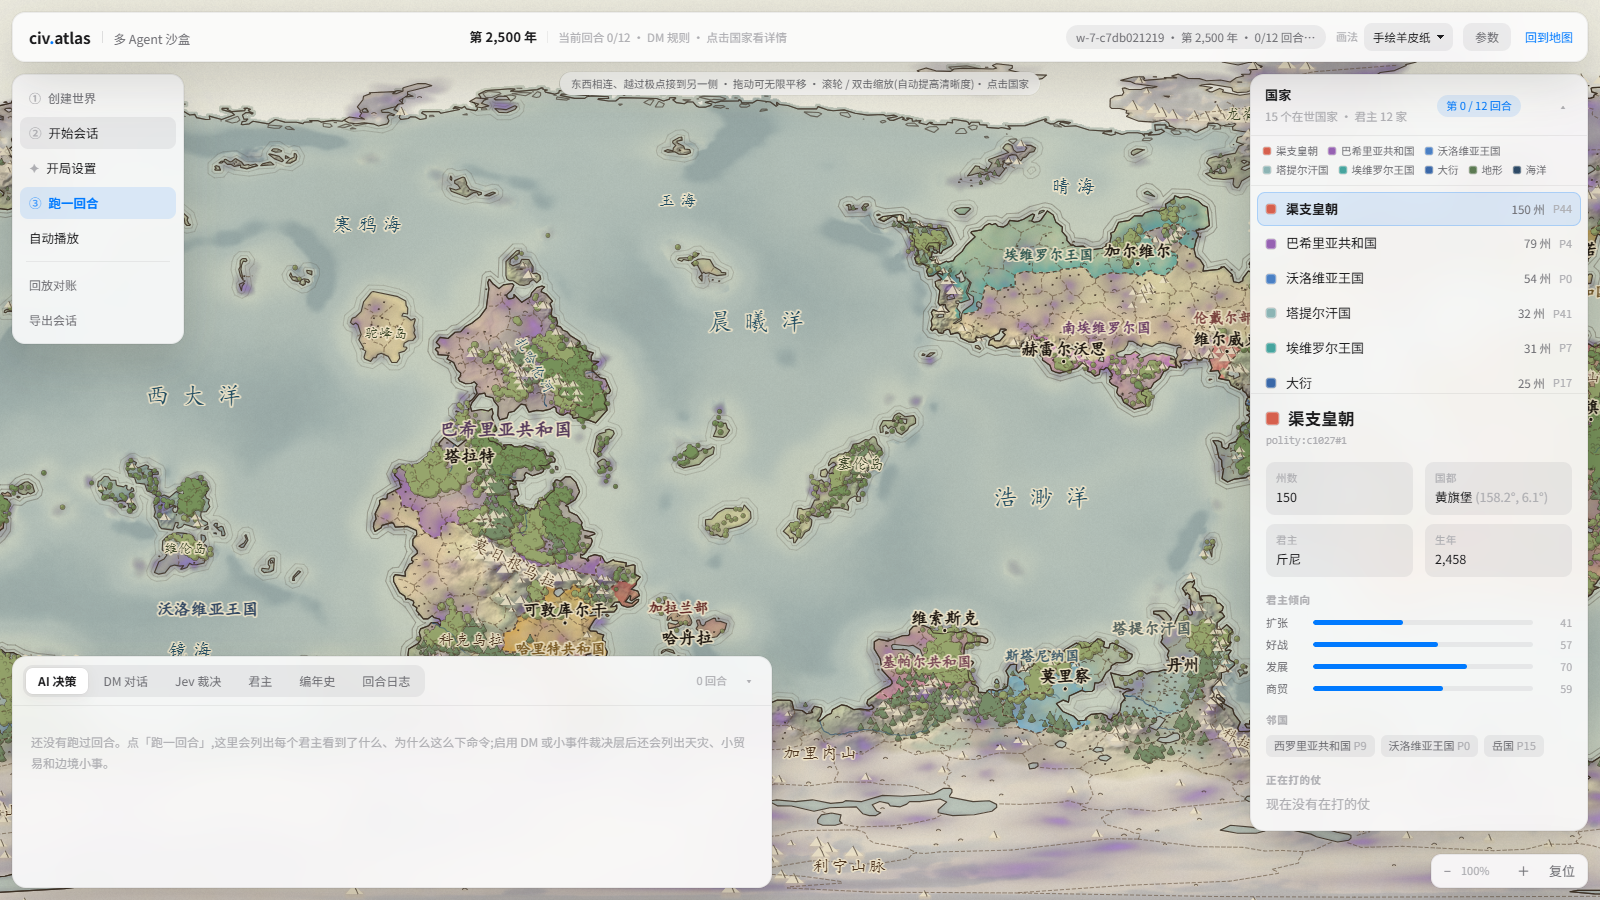
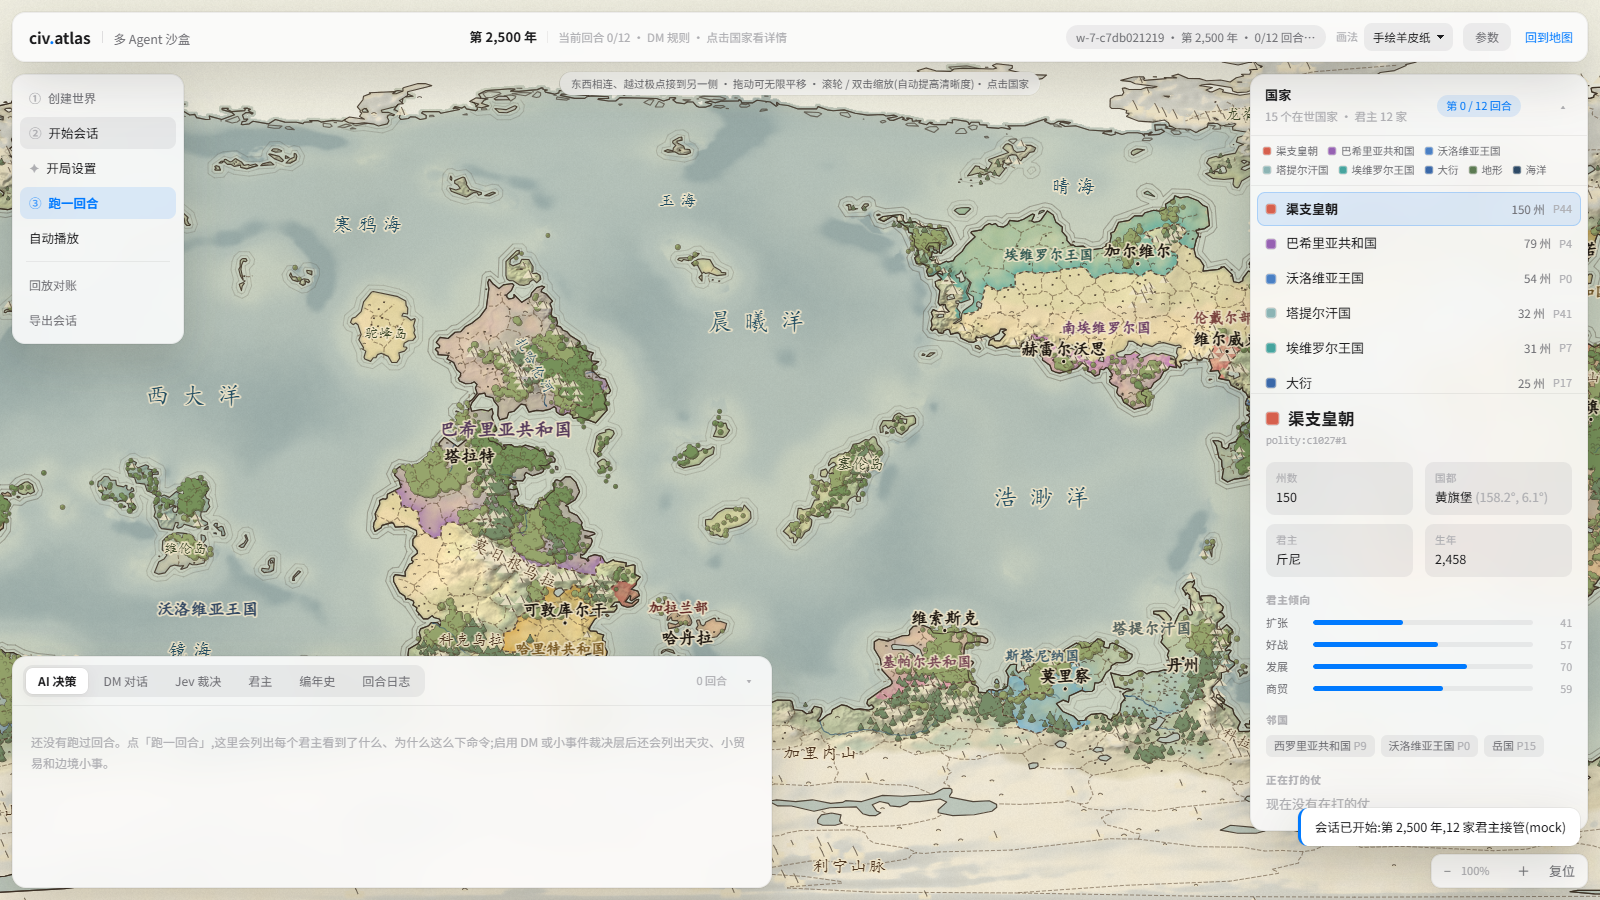
fix(viewer): 换世界时同时清掉右侧国家列表标题/图例（跨世界残留）
- createWorld() 重置块补：el.legend.innerHTML = ''、el.polSub.textContent = ''；
  上一版已清 S.regionLines/dialogue，本次补 UI 侧残留。
- 复验（同页 seed15→会话→切 seed7 预会话）：州界线、国家列表、图例、标题计数全部无残留；
  再开会话后换成 seed7 自己的数据。
- docs/验收-2026-11-14-多seed修复：更新 04/05 复验截图并补记本次修复。

diff --git a/mcp/viewer/app.js b/mcp/viewer/app.js
@@ -2964,6 +2964,8 @@
       hideMapTip();
       updateFieldStatus();
       el.polityList.innerHTML = '';
+      if (el.legend) el.legend.innerHTML = '';
+      if (el.polSub) el.polSub.textContent = '';
       el.polityDetail.innerHTML = '<div class="side-empty">世界建好了,点「开始会话」让 AI 君主接管。</div>';
       setStatus(`${d.worldId} · ${fmtInt(d.cells)} 地块 · 生成 ${d.generatedMs} ms`);
       setHint(`世界 ${d.worldId} 已生成(${fmtInt(d.cells)} 地块)。下一步:设置起始年,点「开始会话」。`);

diff --git a/docs/验收-2026-11-14-多seed修复/README.md b/docs/验收-2026-11-14-多seed修复/README.md
@@ -42,3 +42,14 @@ m05340：「我只是换了一个种子结果就发现"州界线"渲染出错…
 | 03-种子15-会话后-州界线正确.png | seed15 开会话后州界线落在陆地上 |
 | 04-切换回种子7-预会话-无残留州界线.png | 从 seed15 切到 seed7 未开会话：干净，无残留 |
 | 05-种子7-会话后-州界线正确.png | seed7 开会话后州界线正确 |
+## 补充修复（同轮复验时发现）
+
+换世界后除州界线外，右侧「国家」面板的**标题计数（N 个在世国家 · 君主 M 家）、图例色块**还留着上一个世界的 DOM。已一并修复：
+
+```
+createWorld() 重置块再加：
+  if (el.legend) el.legend.innerHTML = '';
+  if (el.polSub) el.polSub.textContent = '';
+```
+
+复验（同一页面内 seed15→会话→切 seed7 未会话）：州界线无残留、国家列表为空、图例/标题清空（见截图 04），再开会话后换成 seed7 自己的州界线与国家列表（截图 05）。
